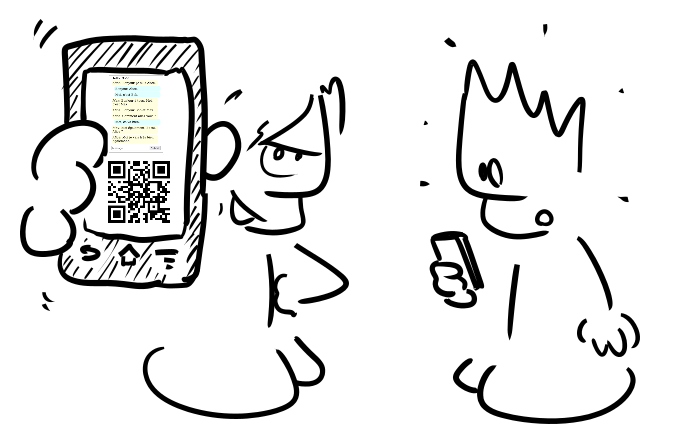
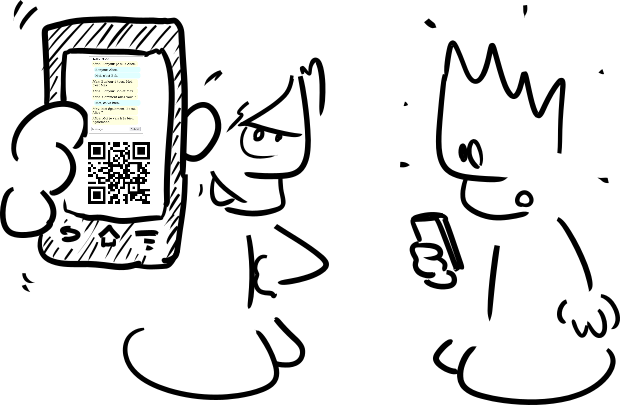
27/07/2023 17:56:58

diff --git a/site/fr/home/_index.md b/site/fr/home/_index.md
@@ -19,7 +19,7 @@ weight: 1
 - Utilisez votre smartphone pour facilement créer de véritables [applications connectées](https://fr.wikipedia.org/wiki/Application_web) pour smartphones, tablettes ou ordinateurs personnels ;
 - donnez instantanément accès à vos applications à l'aide d'un [code QR](https://fr.wikipedia.org/wiki/Code_QR) ou d'un lien transmis via un message [électronique](https://fr.wikipedia.org/wiki/Courrier_%C3%A9lectronique) ou [instantané](https://fr.wikipedia.org/wiki/Messagerie_instantan%C3%A9e).
 
-<div style="position: relative; width: 100%;">
+<div style="text-align: center; width: 100%;">
   <!-- Fait avec https://imagemapper.pageballoon.com/#/ -->
   <svg version="1.1" xmlns="http://www.w3.org/2000/svg" xmlns:xlink="http://www.w3.org/1999/xlink" viewBox="0 0 868 403">
     <image width="868" height="403" xlink:href="Incitation.png"></image> <a xlink:href="../action">
@@ -32,11 +32,11 @@ weight: 1
       <rect x="214" y="212" fill="#fff" opacity="0" width="654" height="191"></rect>
     </a>
   </svg>
-  <span style="position: absolute; bottom : 0px; left: 40%; font-size: 1.8vmin;">
+  <div style="font-size: small;">
     <span>Crée avec </span>
     <a href="https://framalab.org/gknd-creator/" target="_blank">
       <em>GéGé</em></a><span>.</span>
-  <span>
+  </div>
 </div>
 
 - [*Action !*](../action) : section montrant les différentes actions réalisables sur le code source d'une application simplement à partir de votre navigateurs web ;

diff --git a/site/en/home/_index.md b/site/en/home/_index.md
@@ -16,7 +16,7 @@ weight: 1
 - Use your smartphone to easily create true [connected applications](https://en.wikipedia.org/wiki/Web_application) for smartphones, tablets or personal computers;
 - give instant access to your applications using a [QR code](https://en.wikipedia.org/wiki/QR_code) or a link sent via an [email](https://en.wikipedia.org/wiki/Email) or [instant message](https://en.wikipedia.org/wiki/Instant_messaging).
 
-<div style="width:100%; position: relative">
+<div style="width:100%; text-align: center;">
   <!-- Fait avec https://imagemapper.pageballoon.com/#/ -->
   <svg version="1.1" xmlns="http://www.w3.org/2000/svg" xmlns:xlink="http://www.w3.org/1999/xlink" viewBox="0 0 868 403">
     <image width="868" height="403" xlink:href="Incitation.png"></image> <a xlink:href="../action">
@@ -29,11 +29,11 @@ weight: 1
       <rect x="214" y="212" fill="#fff" opacity="0" width="654" height="191"></rect>
     </a>
   </svg>
-  <span style="position: absolute; bottom : 0px; left: 40%;font-size: 1.8vmin;">
+  <div style="font-size: small;">
     <span>Created with </span>
     <a href="https://framalab.org/gknd-creator/">
-    <em>GéGé</em></a><span>.</span>
-  <span>
+      <em>GéGé</em></a><span>.</span>
+  </div>
 </div>
 
 - [*Action!*](../action/): section showing the various actions you can perform on the source code of an application simply from your web browser ;

diff --git a/site/fr/action/_index.md b/site/fr/action/_index.md
@@ -17,15 +17,13 @@ Un encart donne accès à un dépôt hébergé par [*Replit*](../resources/repli
 
 L'application utilisée à titre d’exemple dans cette section permet d"échanger des messages avec n'importe qui juste en lui faisant scanner le code QR généré par l'application avec son smartphone (plus de détails seront donnés dans la sous-section [*Partager*](./share)).
 
-<div style="position: relative; width: 100%; text-align: center">
-    <img style="margin: auto;" src="./Action.png">
-    <span style="position: absolute; bottom : 20px; left: 50%; font-size: 1.4vmin;">
+<div style="width: 100%; text-align: center">
+  <img style="margin: auto;" src="./Action.png"></img>
+  <div style="font-size: small;">
     <span>Crée avec </span>
     <a href="https://framalab.org/gknd-creator/" target="_blank">
-        <em>GéGé</em>
-    </a>
-    <span>.</span>
-    <span>
+      <em>GéGé</em></a><span>.</span>
+  </div>
 </div>
 
 Dans les sous-sections ci-dessous, on sera invité à réaliser différentes actions en utilisant les boutons présents dans l'encart en début de page. Le bouton *Open on Replit* de cet encart affiche le *repl* correspondant dans son propre onglet ; on y retrouvera les mêmes boutons que dans sa présentation ci-dessus et on peut donc utiliser indifféremment l'encart ou son affichage dans un onglet.

diff --git a/site/en/action/_index.md b/site/en/action/_index.md
@@ -17,15 +17,13 @@ An insert gives access to a repository hosted by [*Replit*](../resources/replit/
 
 The application used as an example in this section lets you exchange messages with anyone just by having them scan the QR code generated by the application with their smartphone (more details will be given in the [*Share*](./share) sub-section).
 
-<div style="position: relative; width: 100%; text-align: center">
+<div style="width: 100%; text-align: center">
     <img style="margin: auto;" src="./Action.png">
-    <span style="position: absolute; bottom : 20px; left: 50%; font-size: 1.4vmin;">
-    <span>Created with </span>
-    <a href="https://framalab.org/gknd-creator/" target="_blank">
-        <em>GéGé</em>
-    </a>
-    <span>.</span>
-    <span>
+    <div style="font-size: small;">
+        <span>Created with </span>
+        <a href="https://framalab.org/gknd-creator/" target="_blank">
+            <em>GéGé</em></a><span>.</span>
+    </div>
 </div>
 
 

diff --git a/site/fr/_index.md b/site/fr/_index.md
@@ -3,7 +3,7 @@ title: "Redirection…"
 ---
 
 <script>
-    window.location.href = "home"
+    window.location.href = "home/"
 </script>
 <noscript>
 <div>Pour utiliser <em>Zelbinium</em>, <em>JavaScript</em> doit être activé !</div>

diff --git a/site/en/_index.md b/site/en/_index.md
@@ -3,7 +3,7 @@ title: "Redirection…"
 ---
 
 <script>
-    window.location.href = "home"
+    window.location.href = "home/"
 </script>
 <noscript>
     <div>
